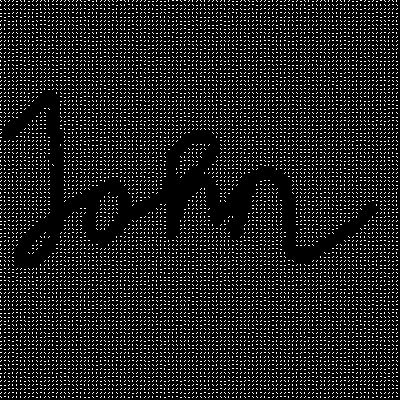
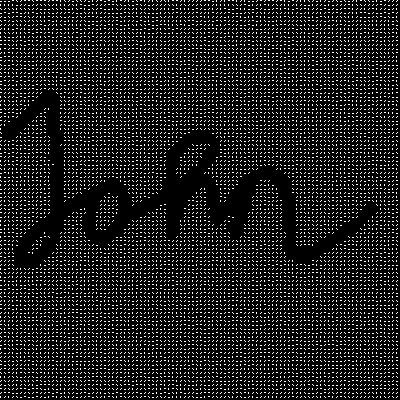
Codes clean up
To Do:
- Resize imae
- Checks if pic exists

diff --git a/test.py b/test.py
@@ -12,23 +12,28 @@ import PIL.ImageOps
 import random
 import sys
 
-# Try different inputs here
+"""
+Global Variables
+"""
+# Try different inputs here (jane.png / jane.jpg)
 path = "john.png"
-# path = "jane.jpg"
 
 # signature starting point
 signX = 1740
 signY = 750
-signWidth = 200 # 200 x 200 pixels 
+signWidth = 200                 # 200 x 200 pixels 
+doubSignSize = signWidth * 2
+reconDist = signWidth - 85
 
+"""
+Functions
+"""
 # Open an Image
 def open_image(filename, bw):
     path = './input/' + filename
     image = Image.open(path)
-
     if (bw == 1):
-        image = image.convert('1') # convert image to black and white
-
+        image = image.convert('1')  # convert image to black and white
     return image
 
 # Save Image
@@ -36,20 +41,10 @@ def save_image(image, filename):
     path = './output/' + filename + '.png'
     print ("{} has been successfully exported!".format(path))
     image.save(path, optimize=True, format="PNG")
-
-# Get the pixel from the given image
-def get_pixel(image, i, j):
-# Inside image bounds?
-    width, height = image.size
-    if i > width or j > height:
-        return None
-
-    # Get Pixel
-    pixel = image.getpixel((i, j))
-    return pixel
  
 # Generate 2 shares
 def gen_2shares (image):
+    # 1 -> 8bit B/W
     outfile1 = Image.new("1", [dimension * 2 for dimension in image.size])
     outfile2 = Image.new("1", [dimension * 2 for dimension in image.size])
 
@@ -207,9 +202,6 @@ def gen_2shares (image):
                     outfile2.putpixel((x * 2 + 1, y * 2 + 1), 0)
                 
     # export image shares
-    save_image (outfile1, "out1")
-    save_image (outfile2, "out2")
-
     image1 = open_image ("cheque.jpg", 0)
     image1.paste(outfile1, (signX, signY))       
     save_image (image1, "cheque/share1")   
@@ -222,41 +214,21 @@ def gen_2shares (image):
 
 # Reconstruct the image using two of the shares
 def merge_2shares ():
-    """     
-        file1 = ('./output/out1.png')
-        file2 = ('./output/out2.png')
-
-        infile1 = Image.open(file1)
-        infile2 = Image.open(file2)
-
-        outfile = Image.new('1', infile1.size)
-
-        for x in range(infile1.size[0]):
-            for y in range(infile1.size[1]):
-                outfile.putpixel((x,y), min(infile1.getpixel((x, y)), infile2.getpixel((x, y))))
-
-        save_image (outfile, "recon")    
-
-        # clean the reconstructed shares
-        clean_2shares (outfile) 
-        
-        print()
-    """
-
     # read both of the shares
     infile1 = Image.open('./output/cheque/share1.png')
     infile2 = Image.open('./output/cheque/share2.png')
 
-    # extract the shares only
-    sign1 = infile1.crop((signX, signY, signX+(signWidth*2), signY+(signWidth*2)))
-    sign1.thumbnail((signWidth*2, signWidth*2), Image.ANTIALIAS)
+    # extract the shares area
+    sign1 = infile1.crop((signX, signY, signX+(doubSignSize), signY+(doubSignSize)))
+    sign1.thumbnail((doubSignSize, doubSignSize), Image.ANTIALIAS)
     sign1 = sign1.convert('1')
-    save_image (sign1, "cheque/sign1")  
+    save_image (sign1, "signature1")  
 
-    sign2 = infile2.crop((signX, signY, signX+(signWidth*2), signY+(signWidth*2)))
-    sign2.thumbnail((signWidth*2, signWidth*2), Image.ANTIALIAS)
+    sign2 = infile2.crop((signX, signY, signX+(doubSignSize), signY+(doubSignSize)))
+    sign2.thumbnail((doubSignSize, doubSignSize), Image.ANTIALIAS)
     sign2 = sign2.convert('1')
-    save_image (sign2, "cheque/sign2")  
+    save_image (sign2, "signature2")  
+    print()
 
     # reconstruct the shares
     outfile = Image.new('1', sign1.size)
@@ -273,13 +245,12 @@ def merge_2shares ():
     # replace the area with white color
     result = Image.open('./output/cheque/share1.png')
 
-    for x in range(signX, signX+(signWidth*2)):
-        for y in range(signY, signY+(signWidth*2)):
+    for x in range(signX, signX+(doubSignSize)):
+        for y in range(signY, signY+(doubSignSize)):
             result.putpixel((x, y), (255,255,255,255))
 
     # place the clean shares to it
     overlay_pic(result)
-    
 
 # Resize the reconstructed image 
 # and clean the noise
@@ -320,7 +291,7 @@ def clean_2shares (inputImg):
                 result.putpixel((x, y + 1), 255)
                 result.putpixel((x + 1, y + 1), 255)
     
-    # create transparent layer to be pasted to cheque
+    # create transparent layer to be pasted on cheque
     image_trans = Image.new("RGBA", (result.size[0], result.size[1]), (255,255,255,0))
 
     for y in range (0,result.size[0]):
@@ -330,18 +301,15 @@ def clean_2shares (inputImg):
 
     save_image (image_trans, "clean2")
 
+# overlay the pic
 def overlay_pic (dest):
     source = Image.open("./output/clean2.png")
-
-    dest.paste(source, (signX+signWidth, signY+signWidth), mask=source)       
+    dest.paste(source, (signX+reconDist, signY+(reconDist*2)), mask=source)       
     save_image (dest, "cheque/final_img")       
 
 """
 Main function
 """
-
 img = open_image (path, 1)
 gen_2shares (img)
 merge_2shares()
-
-# overlay_pic ()
